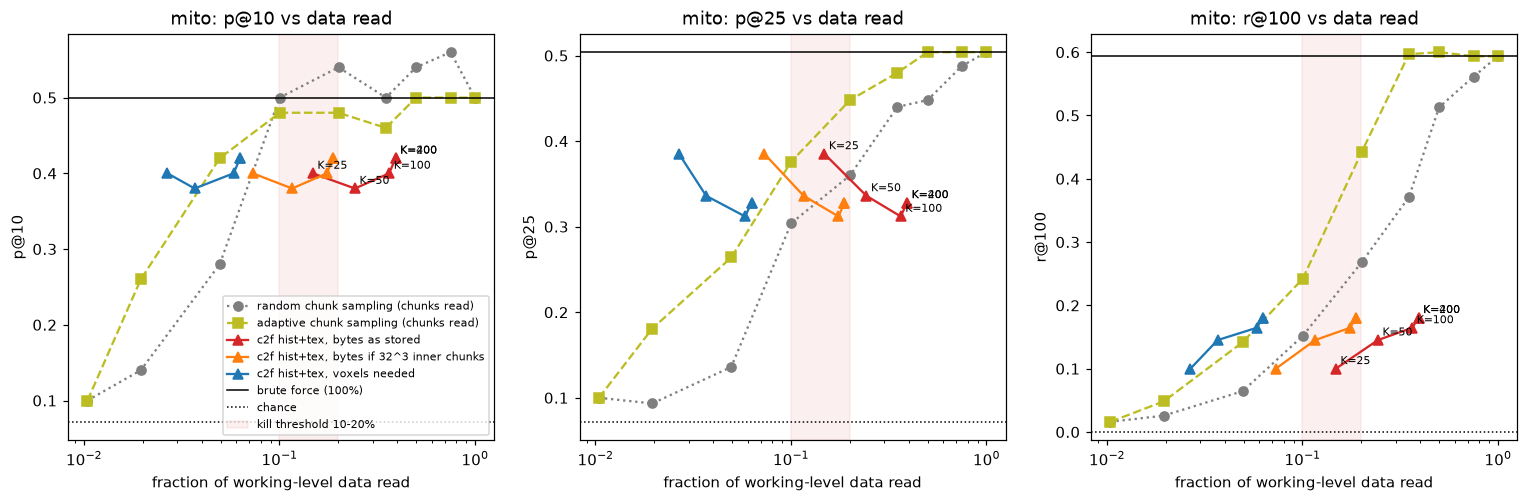
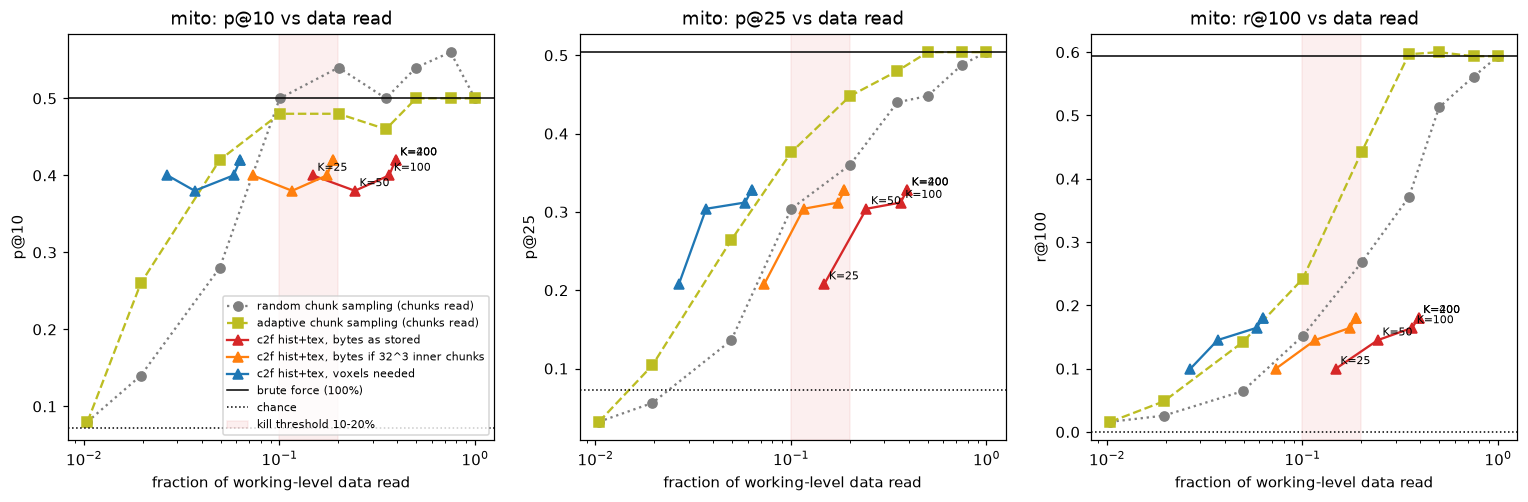
Test 2: p@N counts a short list's missing places as misses
evaluate() divided by the length of the list, which is shorter than N where
the descent ends with fewer places (K=25 returns about 16 on vesicles) and at
the smallest sampling budgets, so those rows read too high. It now divides by
N; report.py corrects the rows stored before from their n@N (nothing re-run)
and RESULTS.md's tables follow: vesicles c2f s3 K=25 p@25 0.89 -> 0.57, mito
K=25 0.39 -> 0.21 (subvolume) and 0.33 -> 0.21 (whole). The vesicle pass in
the kill rule moves from K=25 at 3.4% of the bytes to K=50 at 5.0%
(p@10 0.92, p@25 0.90); every verdict stands. Tests 6-13 use the same
evaluate() over thousands of candidates (full lists), so their numbers keep.

Also: the experiments' torch threads are the cores the job may use
(sched_getaffinity: an LSF job's slots), not every core of the node.

Claude-Session: https://claude.ai/code/session_01JpyHq4EQ7e93kpp6YFLrZv

diff --git a/experiments/report.py b/experiments/report.py
@@ -16,6 +16,23 @@ MATCH_REL = 0.9  # "roughly matching brute force": >= 90% of its mean precision.
 MATCH_ABS = 0.05  # ...or within 0.05 absolute (small-number noise)
 
 
+def per_n(o):
+    """p@N divided by N, in rows stored before test 2's evaluate() did so (it divided by the
+    length of the list, shorter than N where fewer places were found): p@N * n@N / N, in place."""
+    if isinstance(o, dict):
+        if not o.get("p_over_n"):
+            for k in [k for k in o if k[:2] == "p@" and k[2:].isdigit()]:
+                n, m = int(k[2:]), o.get(f"n@{k[2:]}")
+                if isinstance(m, int) and m < n:
+                    o[k] = o[k] * m / n
+        for v in o.values():
+            per_n(v)
+    elif isinstance(o, list):
+        for v in o:
+            per_n(v)
+    return o
+
+
 def mean_over_queries(rows, key):
     return float(np.mean([r[key] for r in rows]))
 
@@ -24,7 +41,7 @@ def load(target, region="sub"):
     """Merge test2_<target>*.json runs over the same region (c2f rows from all of them;
     brute force and sampling from the first). region 'sub' = subvolume, 'full' = whole volume."""
     files = sorted(RESULTS.glob(f"test2_{target}*.json"))
-    runs = [json.loads(f.read_text()) for f in files]
+    runs = [per_n(json.loads(f.read_text())) for f in files]
     full = lambda r: r["region_s0"][0] == [0, 0, 0] and r["region_s0"][1] == [6368, 1600, 12000]
     runs = [r for r in runs if full(r) == (region == "full")]
     if not runs:

diff --git a/experiments/test2_coarse2fine.py b/experiments/test2_coarse2fine.py
@@ -165,18 +165,22 @@ def inside_point(mirror: Mirror, label: str, level: int, inst_id: int, centroid,
 
 
 def evaluate(centers, centroids, patch, ns=NS):
-    """precision@N and recall@N for ranked region centres (working voxels)."""
+    """precision@N and recall@N for ranked region centres (working voxels). p@N is the share of
+    the first N places that hold a target, N of them whatever was found: a list shorter than N
+    counts the missing places as misses (until 2026-11-12 it divided by the list's length,
+    which raised short lists; report.py corrects rows stored before from their n@N)."""
     half = patch / 2
     res = {}
     if len(centers) == 0:
-        return {f"p@{n}": 0.0 for n in ns} | {f"r@{n}": 0.0 for n in ns}
+        return {f"p@{n}": 0.0 for n in ns} | {f"r@{n}": 0.0 for n in ns} | {f"n@{n}": 0 for n in ns} | {"p_over_n": True}
     d = np.abs(centers[:, None, :] - centroids[None, :, :])  # (k, m, 3)
     contains = np.all(d < half, axis=2)
     for n in ns:
         c = contains[:n]
-        res[f"p@{n}"] = float(c.any(1).mean()) if len(c) else 0.0
+        res[f"p@{n}"] = float(c.any(1).sum() / n)
         res[f"r@{n}"] = float(c.any(0).mean())
         res[f"n@{n}"] = int(len(c))
+    res["p_over_n"] = True  # p@N divided by N (see above)
     return res
 
 

diff --git a/experiments/test6_models.py b/experiments/test6_models.py
@@ -43,7 +43,7 @@ from pathlib import Path
 import numpy as np
 
 import test2_coarse2fine as t2
-from common import CACHE, RESULTS, Mirror
+from common import CACHE, RESULTS, Mirror, cores
 
 ROOT = Path(__file__).resolve().parents[1]  # the repository (its .hf holds the model downloads)
 os.environ.setdefault("HF_HOME", str(ROOT / ".hf"))
@@ -92,7 +92,7 @@ def timm_matcher(name, size=112):
 
 class Matcher:
     def __init__(self, name):
-        torch.set_num_threads(int(os.environ.get("TORCH_THREADS", os.cpu_count())))
+        torch.set_num_threads(int(os.environ.get("TORCH_THREADS", cores())))
         self.name, self.channels = name, 3
         if name.startswith("dinov2"):
             from transformers import AutoModel

diff --git a/experiments/test7_template.py b/experiments/test7_template.py
@@ -29,7 +29,7 @@ from pathlib import Path
 import numpy as np
 
 import test2_coarse2fine as t2
-from common import RESULTS, Mirror
+from common import RESULTS, Mirror, cores
 
 ROOT = Path(__file__).resolve().parents[1]  # the repository (its .hf holds the model downloads)
 os.environ.setdefault("HF_HOME", str(ROOT / ".hf"))
@@ -47,7 +47,7 @@ class Tokens:
     def __init__(self):
         from transformers import AutoModel
 
-        torch.set_num_threads(int(os.environ.get("TORCH_THREADS", os.cpu_count())))
+        torch.set_num_threads(int(os.environ.get("TORCH_THREADS", cores())))
         self.m = AutoModel.from_pretrained("facebook/dinov2-small").eval()
 
     def plane(self, img: np.ndarray, f: float):

diff --git a/experiments/test5_matching.py b/experiments/test5_matching.py
@@ -29,7 +29,7 @@ import numpy as np
 import torch
 
 import test2_coarse2fine as t2
-from common import CACHE, RESULTS, Mirror
+from common import CACHE, RESULTS, Mirror, cores
 
 os.environ.setdefault("HF_HOME", str(t2.RESULTS.parent / ".hf"))
 MEAN = np.array([0.485, 0.456, 0.406], np.float32)[:, None, None]
@@ -43,7 +43,7 @@ class Model:
     def __init__(self, size=112, keep_tokens=False):
         from transformers import AutoModel
 
-        torch.set_num_threads(os.cpu_count())
+        torch.set_num_threads(cores())
         self.m = AutoModel.from_pretrained("facebook/dinov2-small").eval()
         self.size = size
         self.keep_tokens = keep_tokens

diff --git a/experiments/embed.py b/experiments/embed.py
@@ -14,7 +14,7 @@ from pathlib import Path
 
 import numpy as np
 
-from common import CACHE
+from common import CACHE, cores
 
 MODEL = "facebook/dinov2-small"
 ROOT = Path(__file__).resolve().parents[1]  # the repository (its .hf holds the model downloads)
@@ -31,7 +31,7 @@ class Embedder:
         from transformers import AutoModel
 
         self.torch = torch
-        torch.set_num_threads(threads or os.cpu_count())
+        torch.set_num_threads(threads or cores())
         self.model = AutoModel.from_pretrained(MODEL).eval()
         self.input_size = input_size
         self.batch = batch

diff --git a/experiments/common.py b/experiments/common.py
@@ -39,6 +39,11 @@ _keys = re.compile(r"<Key>(.*?)</Key>.*?<Size>(\d+)</Size>", re.S)
 _token = re.compile(r"<NextContinuationToken>(.*?)</NextContinuationToken>")
 
 
+def cores() -> int:
+    """The cores this process may use: an LSF job's slots (its CPU affinity), not all the node's."""
+    return len(os.sched_getaffinity(0)) if hasattr(os, "sched_getaffinity") else (os.cpu_count() or 1)
+
+
 def _get(url: str, timeout: float = 60.0, tries: int = 5) -> bytes:
     last = None
     for _ in range(tries):

diff --git a/experiments/results/RESULTS.md b/experiments/results/RESULTS.md
@@ -99,12 +99,19 @@ costed from the listing's real chunk sizes: as stored (whole 64^3 chunks), as if
 with 32^3 inner chunks, and as the voxels actually needed. Fractions are of the working
 level over the searched region.
 
+p@N is the share of the first N places that hold a target, a list shorter than N counting
+its missing places as misses. Until 2026-11-12 `evaluate()` divided by the list's length
+instead, which raised K=25 (its descent often ends with fewer than 25 places: about 16 on
+vesicles) and the smallest sampling budgets; the tables here are corrected from each run's stored list lengths (`report.py`),
+nothing re-run. The vesicle pass moved from K=25 at 3.4% of the bytes to K=50 at 5.0%.
+
 ### Vesicles: pass
 
 | method | p@10 | p@25 | r@100 | bytes as stored | 32^3 inner | voxels |
 |---|---|---|---|---|---|---|
 | brute force | 0.82 | 0.85 | 0.07 | 100% | 100% | 100% |
-| c2f s3, K=25, hist+tex | 0.88 | 0.89 | 0.01 | **3.4%** | 2.1% | 1.7% |
+| c2f s3, K=25, hist+tex | 0.88 | 0.57 | 0.01 | 3.4% | 2.1% | 1.7% |
+| c2f s3, K=50, hist+tex | 0.92 | 0.90 | 0.02 | **5.0%** | 2.8% | 1.9% |
 | c2f s3, K=100, hist+tex | 0.96 | 0.95 | 0.04 | 7.7% | 4.0% | 2.1% |
 | c2f s3, K=400, hist+tex | 0.92 | 0.92 | 0.08 | 22.3% | 10.9% | 3.5% |
 | c2f s4, K=100, hist+tex | 0.98 | 0.91 | 0.03 | 6.8% | 3.1% | 0.8% |
@@ -135,7 +142,7 @@ Subvolume:
 | c2f s4, K=100, ncc+hist+tex | 0.46 | 0.41 | 0.21 | 29.7% | 16.4% | 4.7% |
 | c2f s4, K=100, hist+tex | 0.40 | 0.31 | 0.16 | 36.4% | 17.5% | 5.8% |
 | c2f s4, K=100, tex | 0.50 | 0.32 | 0.17 | 38.6% | 18.9% | 5.7% |
-| c2f s4, K=25, hist+tex | 0.40 | 0.39 | 0.10 | 14.8% | 7.3% | 2.7% |
+| c2f s4, K=25, hist+tex | 0.40 | 0.21 | 0.10 | 14.8% | 7.3% | 2.7% |
 | c2f s3, K=100, hist+tex | 0.50 | 0.34 | 0.16 | 30.7% | 18.3% | 12.8% |
 | random sampling, 10% of chunks | 0.50 | 0.30 | 0.15 | 10% | | |
 | adaptive sampling, 20% of chunks | 0.48 | 0.45 | 0.44 | 20% | | |
@@ -145,7 +152,7 @@ Whole volume:
 | method | p@10 | p@25 | r@100 | bytes as stored | 32^3 inner | voxels |
 |---|---|---|---|---|---|---|
 | brute force | 0.48 | 0.44 | 0.13 | 100% | 100% | 100% |
-| c2f s4, K=25, hist+tex | 0.38 | 0.33 | 0.02 | 3.6% | 2.2% | 1.7% |
+| c2f s4, K=25, hist+tex | 0.38 | 0.21 | 0.02 | 3.6% | 2.2% | 1.7% |
 | c2f s4, K=100, hist+tex | 0.36 | 0.32 | 0.04 | 8.4% | 4.4% | 2.0% |
 | c2f s4, K=400, hist+tex | 0.44 | 0.39 | 0.10 | 24.6% | 12.1% | 3.4% |
 | random sampling, 5% of chunks | 0.56 | 0.40 | 0.06 | 5% | | |
@@ -621,7 +628,7 @@ the Legacy Surveys cutout service. Raw data only; nothing precomputed.
 
 | target | top hits matched | data needed (as stored / 32^3 inner / voxels) | verdict |
 |---|---|---|---|
-| vesicle | yes (p@10, p@25 at or above brute force) | 3.4% / 2.1% / 1.7% | pass |
+| vesicle | yes (p@10, p@25 at or above brute force), at K=50 | 5.0% / 2.8% / 1.9% | pass |
 | mito, subvolume | p@10 only; p@25 at most 0.41 vs 0.50 | not reached | fail |
 | mito, whole volume | at K=400 | 24.6% / 12.1% / 3.4% | fail (over 20% as stored) |
 | vesicle, Test 3 chunk-wise | yes (p@10 0.92 vs 0.82, p@25 0.86 vs 0.85) | 2.4% as stored, incl. coarse scan | pass |
